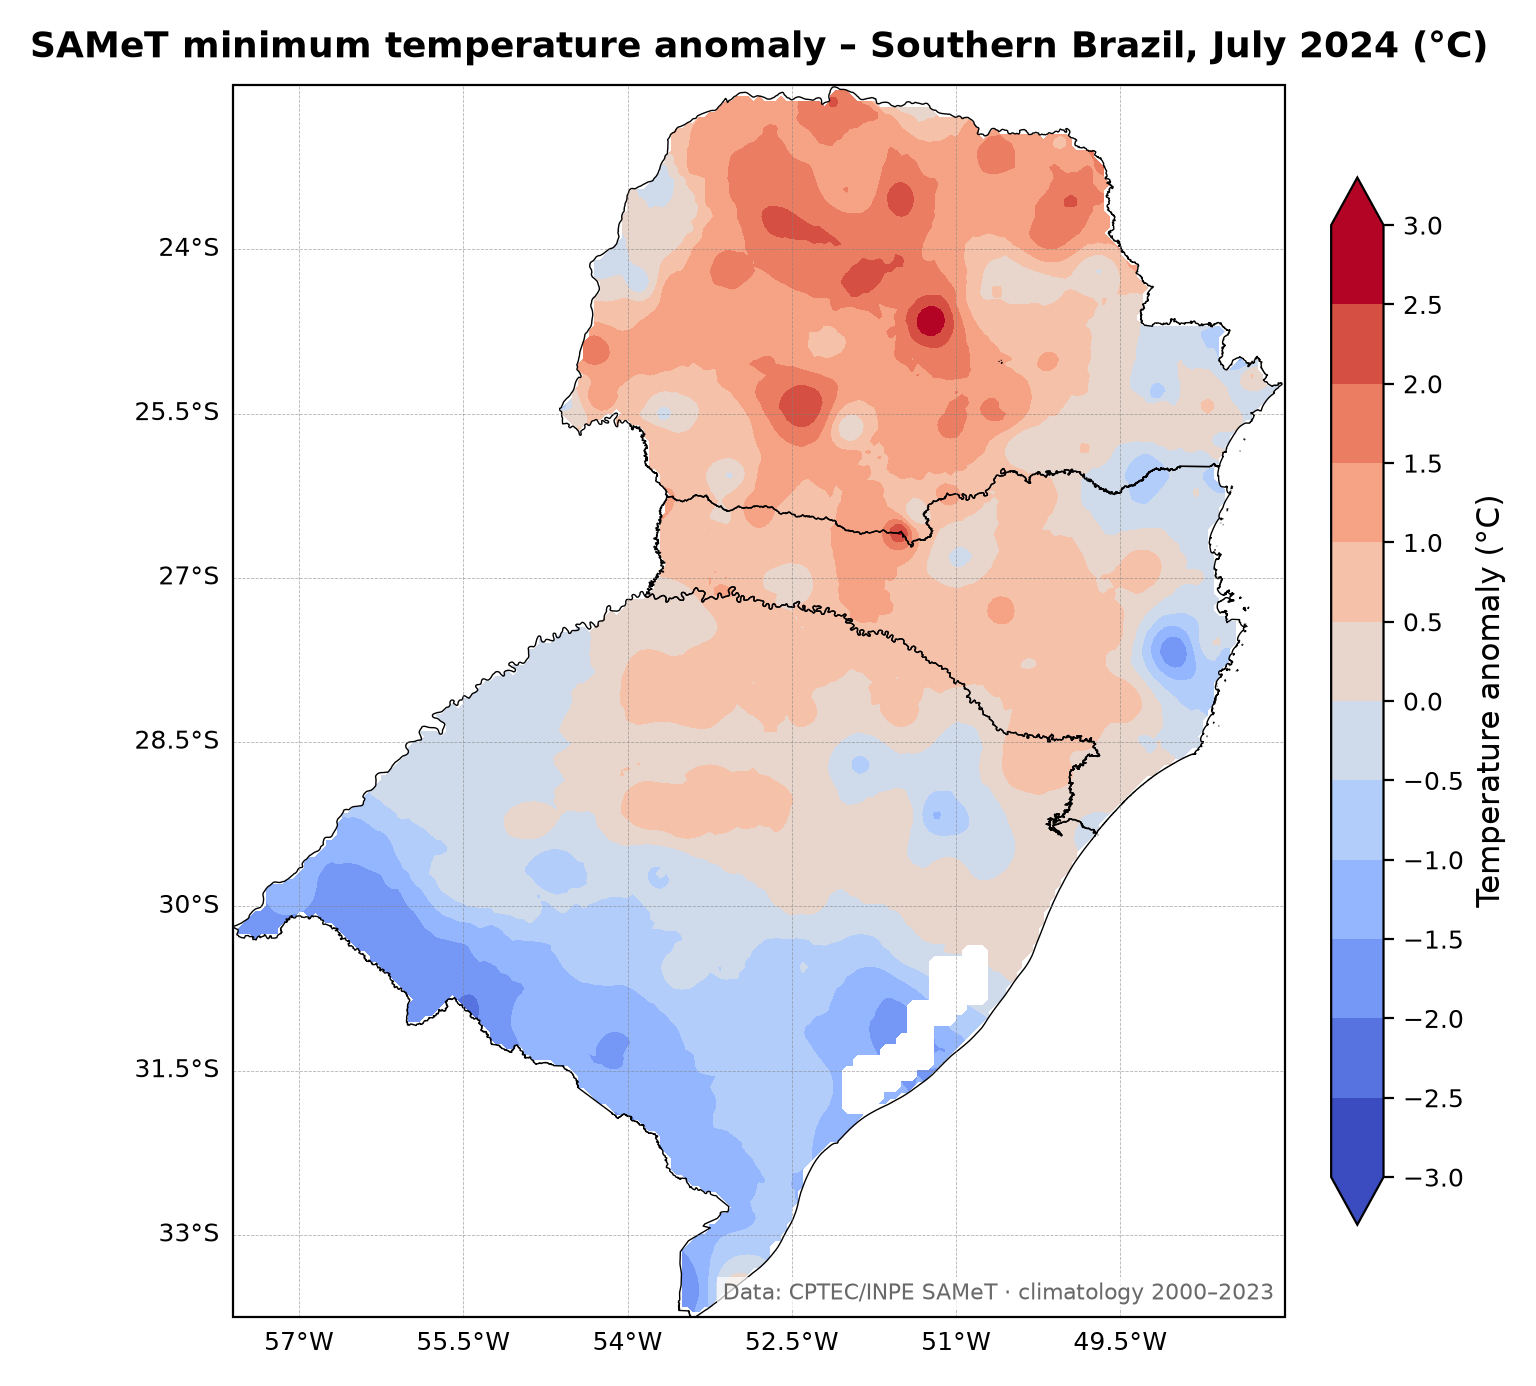
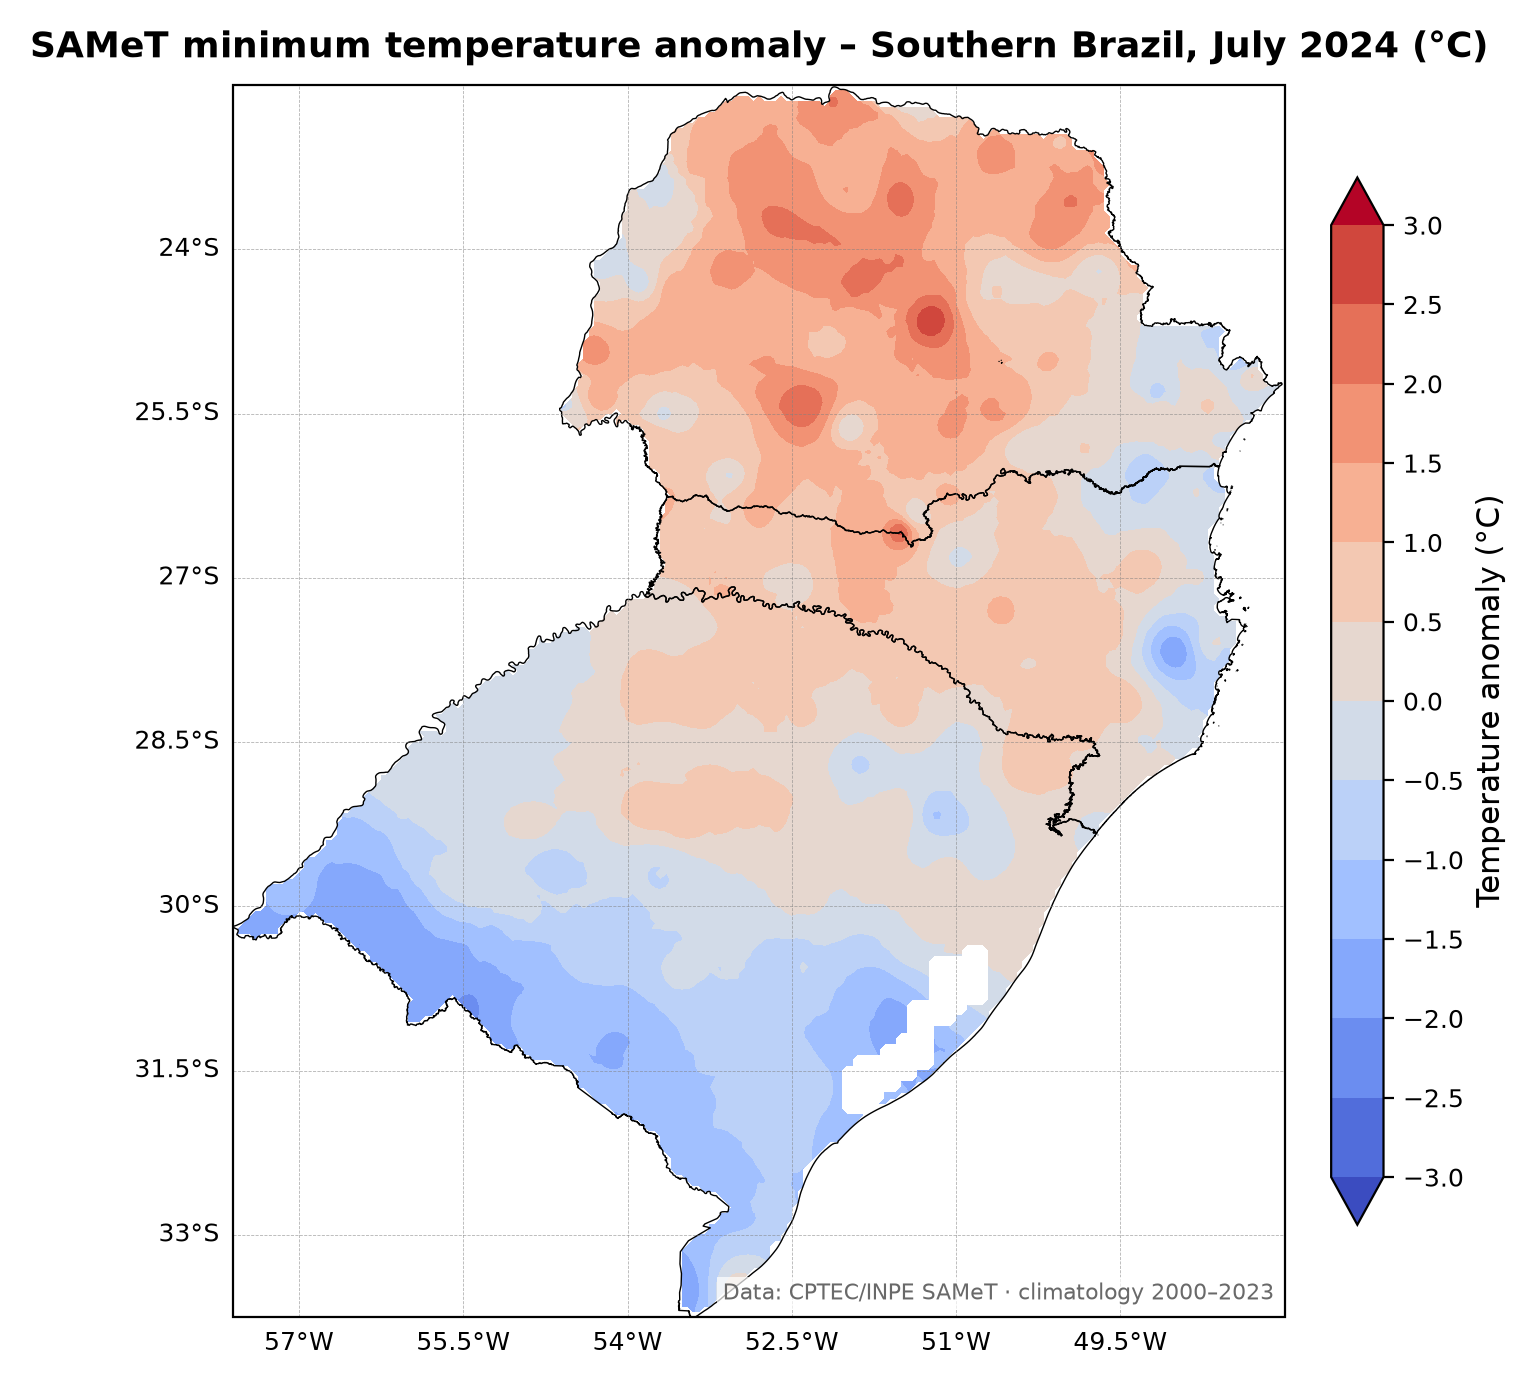
Colours beyond ±3 °C distinct from the end classes again, as in the original scripts (extend_colours, like the other map repos); three figures regenerated

diff --git a/src/samet_cptec/plotting.py b/src/samet_cptec/plotting.py
@@ -65,6 +65,7 @@ def plot_map(
     credit: str | None = None,
     dpi: int = DEFAULT_DPI,
     extend: str = "both",
+    extend_colours: bool = False,
 ) -> None:
     """Draw a gridded field on a map and save it as PNG.
 
@@ -82,6 +83,8 @@ def plot_map(
         credit: small source credit printed in the bottom-right corner.
         dpi: output resolution.
         extend: colorbar/contour extension: ``"both"``, ``"max"``, ``"min"`` or ``"neither"``.
+        extend_colours: reserve distinct colours of ``cmap`` for the out-of-range
+            arrows, as ``contourf(..., extend=...)`` does.
 
     Raises:
         ValueError: on inconsistent grids, bad shapefiles or an all-missing field.
@@ -123,7 +126,7 @@ def plot_map(
             crs=ccrs.PlateCarree(),
         )
         palette = mpl.colormaps[cmap] if isinstance(cmap, str) else cmap
-        norm = BoundaryNorm(levels, palette.N)
+        norm = BoundaryNorm(levels, palette.N, extend=extend if extend_colours else "neither")
         # Smooth filled contours, as in the original scripts (no per-cell blocks).
         artist = ax.contourf(
             lon,

diff --git a/src/samet_cptec/cli.py b/src/samet_cptec/cli.py
@@ -79,6 +79,9 @@ def run(args: argparse.Namespace) -> None:
         label=f"Temperature anomaly ({units})",
         levels=LEVELS,
         cmap=CMAP,
+        # Areas beyond ±3 °C get their own shades, as in the original scripts
+        # (contourf with extend="both"), not the colours of the end classes.
+        extend_colours=True,
         shapefile=args.shapefile,
         states=list(region.states) if region.states else None,
         extent=list(region.extent),

diff --git a/docs/VALIDATION.md b/docs/VALIDATION.md
@@ -53,3 +53,10 @@ by the user. Missing values propagate per grid cell.
 - Climatology period: 2000–2023 according to CPTEC's `CLIMATOLOGY/READ-ME.txt` (now linked);
   the product read-me still says 2000–2020.
 - After these fixes `make figures` rebuilt the three figures byte-identical.
+- Colours beyond ±3 °C (approved change): since the English refactor, `BoundaryNorm` without
+  `extend` gave the areas above 3 °C and below −3 °C the same colour as the 2.5–3 and −3 to
+  −2.5 classes. The original scripts (`contourf(..., cmap="coolwarm", extend="both")`) gave
+  them their own shades; `plot_map` now does the same (`extend_colours`, as in the other three
+  map repositories). Palette and levels are unchanged. The three figures were regenerated: the
+  areas beyond ±3 °C and the colorbar arrows are now the darkest red and blue, and the inner
+  classes are spread over the rest of the palette.
